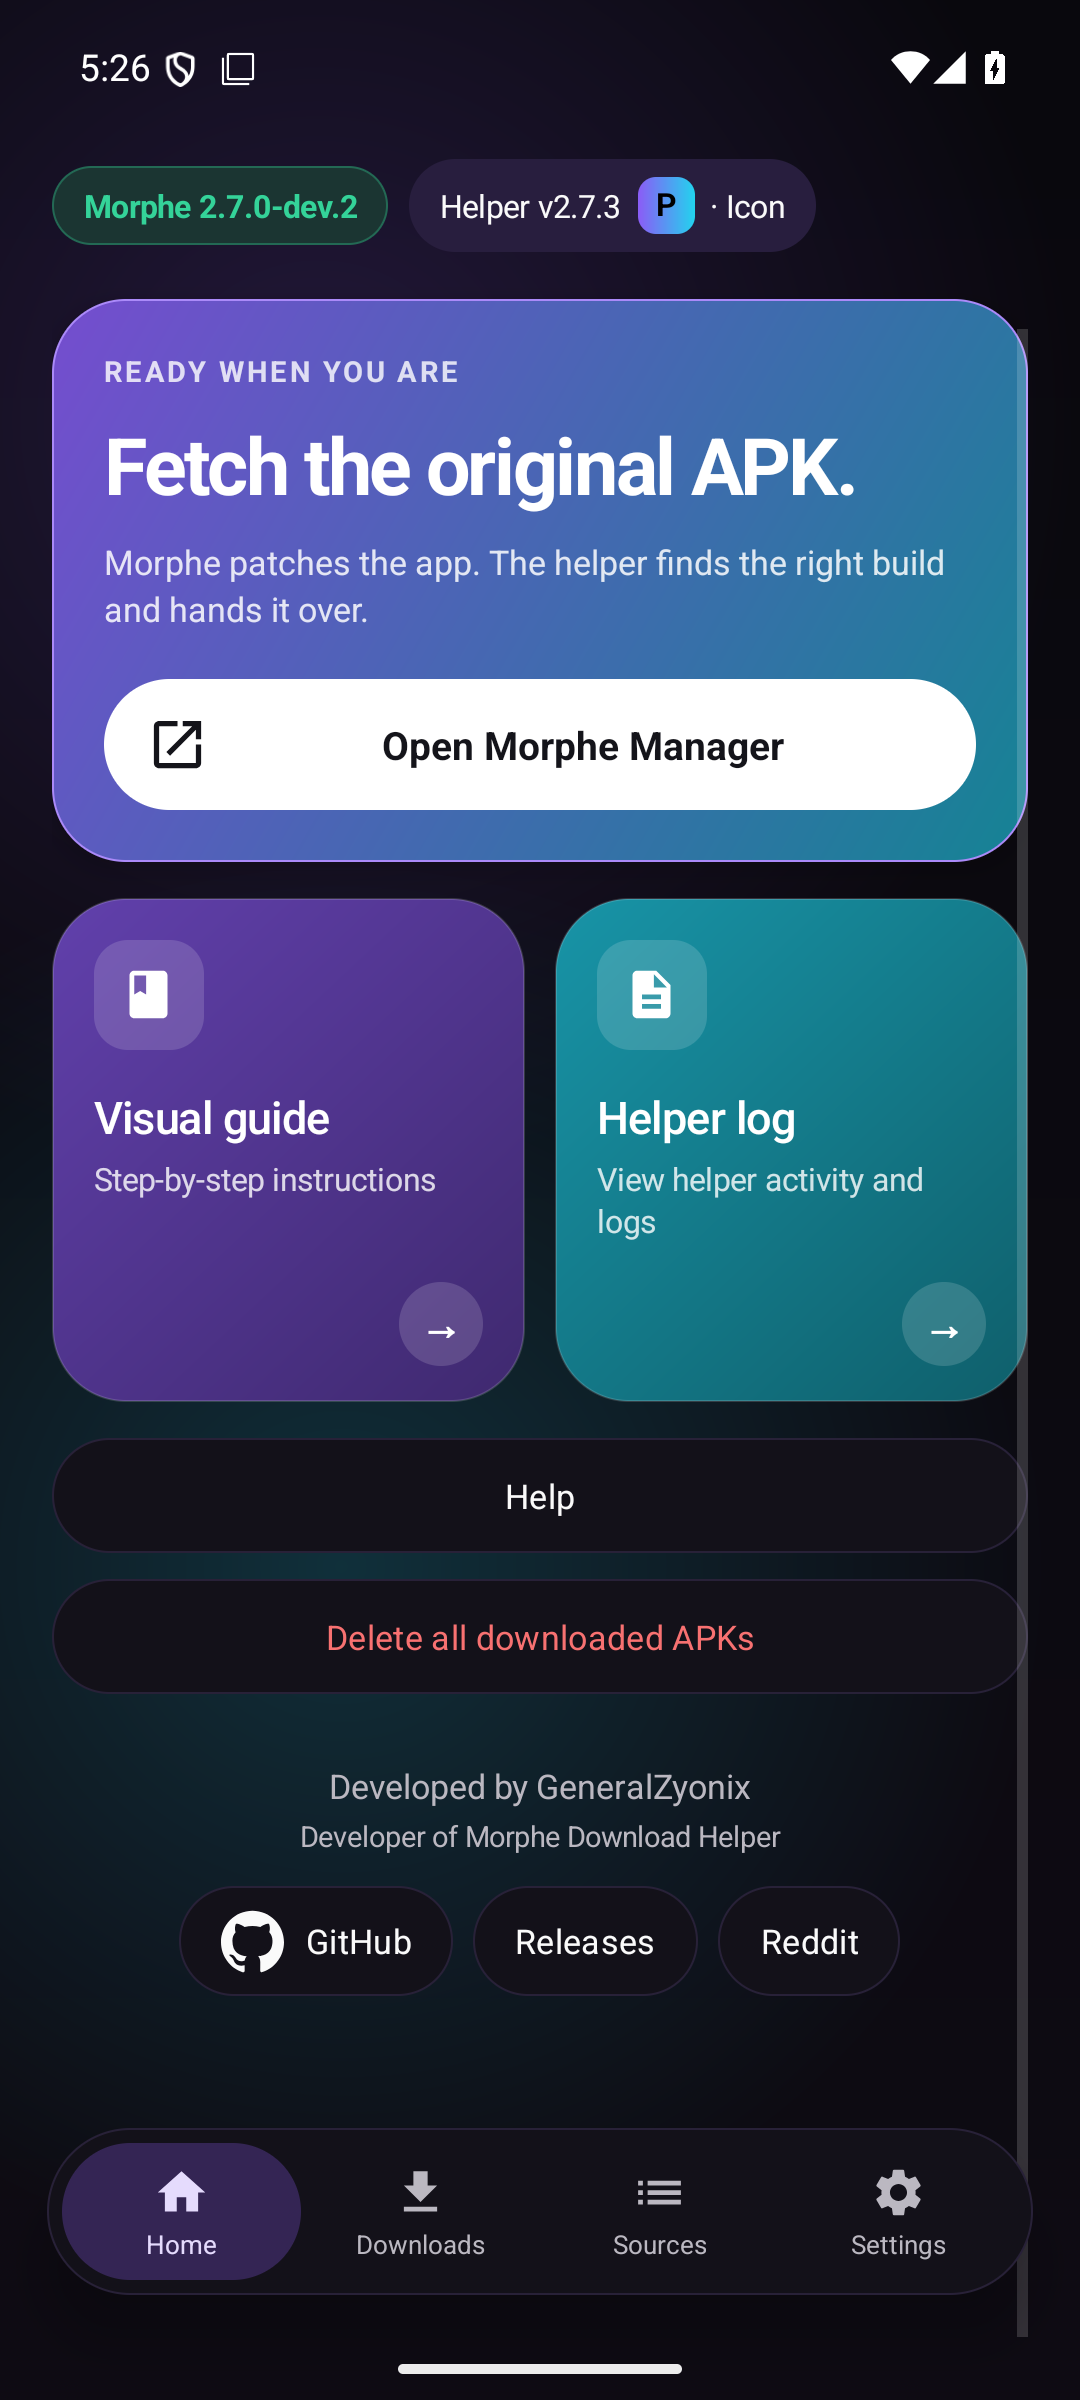
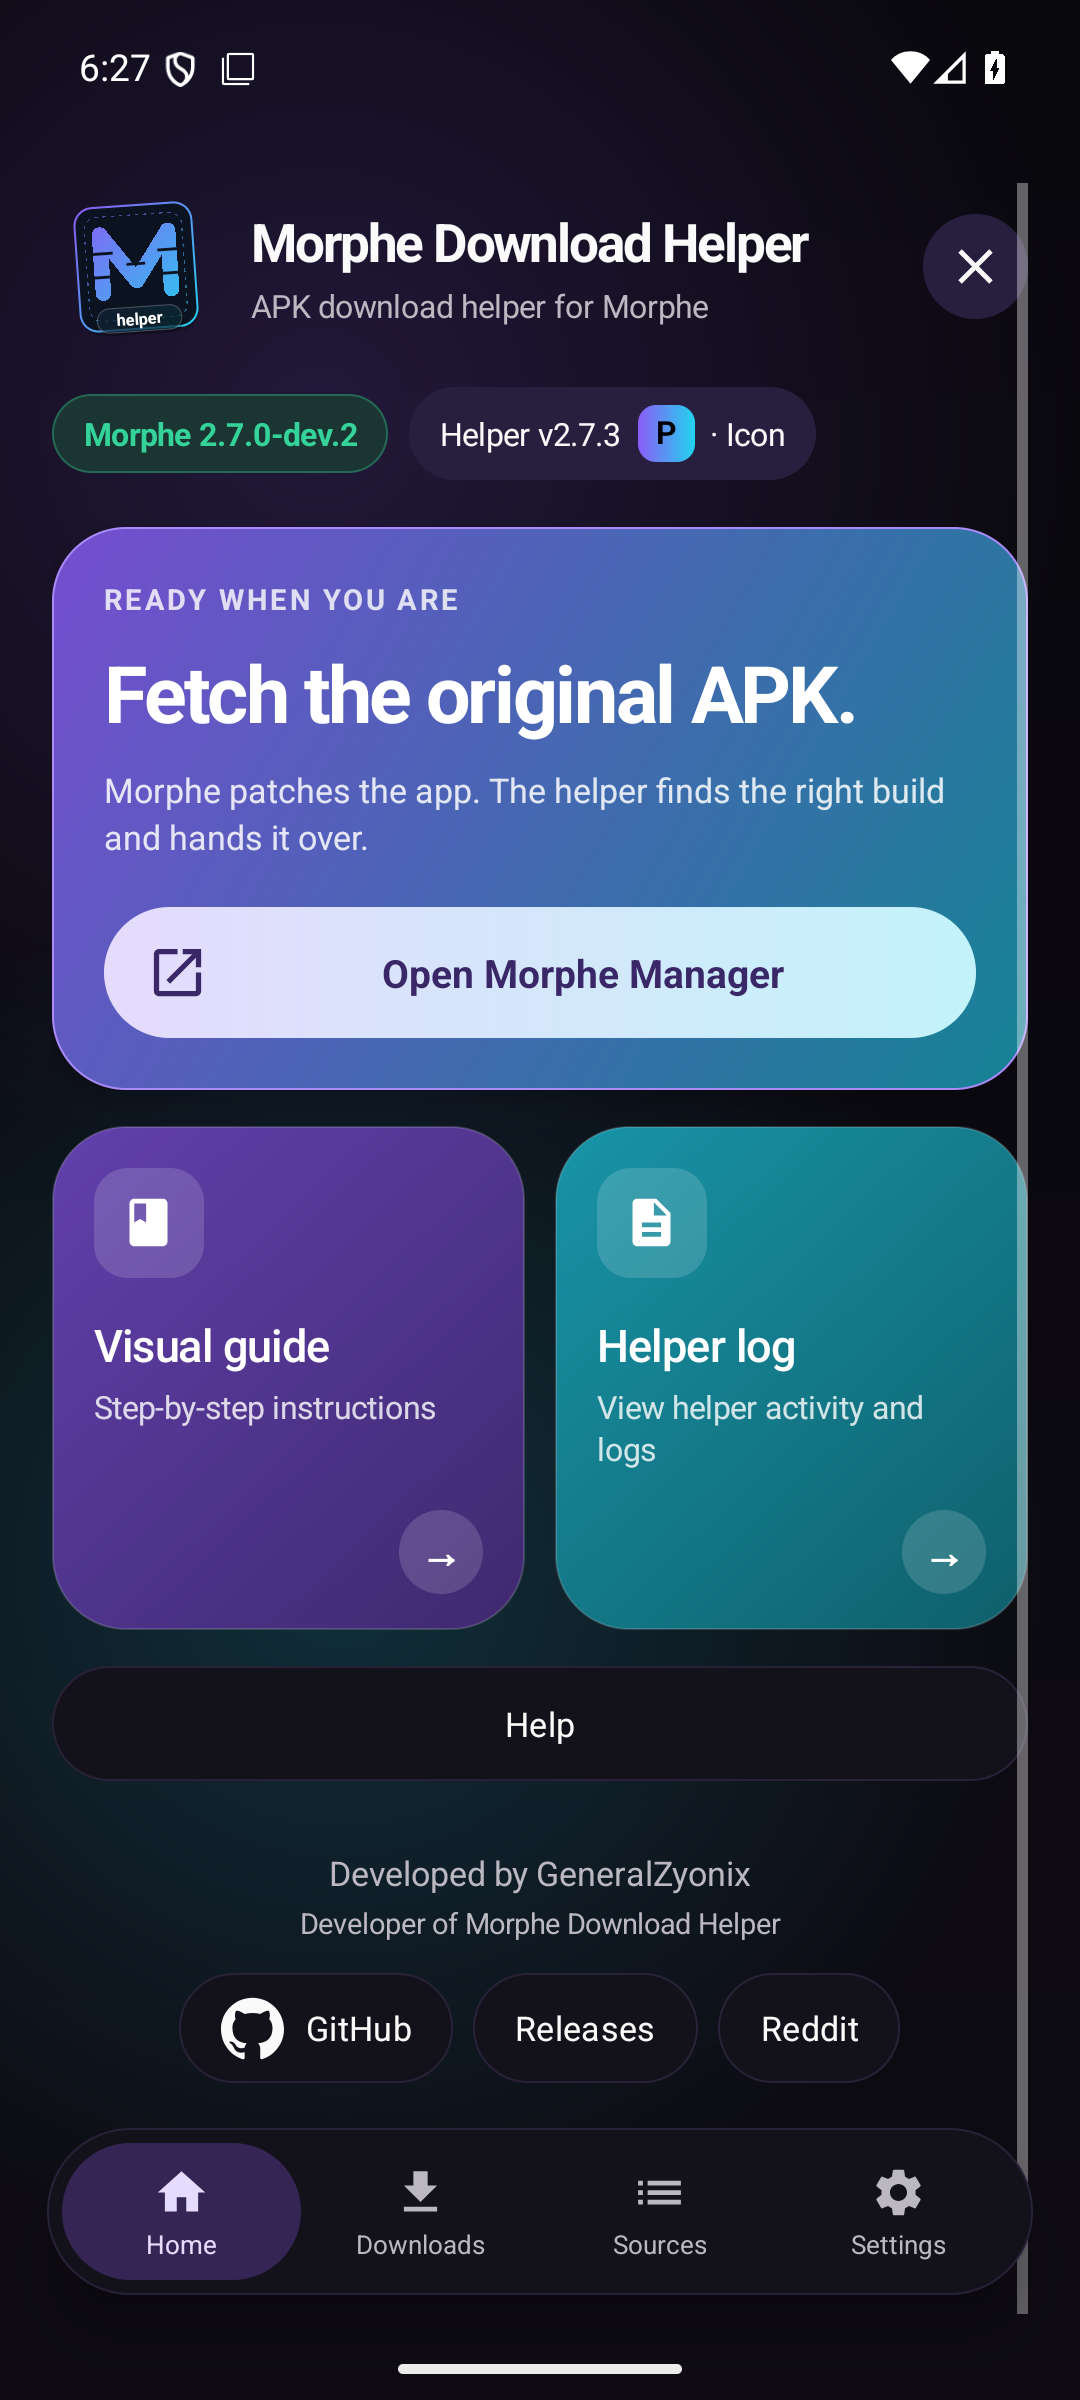
Tint the hero action with the selected accent

diff --git a/app/src/main/java/be/alterra/morphehelper/MorphePreviewActivity.java b/app/src/main/java/be/alterra/morphehelper/MorphePreviewActivity.java
@@ -504,15 +504,21 @@ public class MorphePreviewActivity extends Activity {
     }
 
     private TextView heroButton(String label, int iconRes, Runnable action) {
-        int foreground = Color.rgb(20, 20, 26);
+        float tint = palette.light ? 0.62f : 0.78f;
+        int fillStart = M3Ui.blend(palette.primaryStart, Color.WHITE, tint);
+        int fillEnd = M3Ui.blend(palette.primaryEnd, Color.WHITE, Math.max(0f, tint - 0.05f));
+        int foreground = M3Ui.blend(palette.primaryStart, Color.BLACK, 0.58f);
+        GradientDrawable background = new GradientDrawable(
+                GradientDrawable.Orientation.LEFT_RIGHT,
+                new int[]{fillStart, fillEnd});
+        background.setCornerRadius(dp(M3Ui.SHAPE_FULL));
         TextView button = M3Ui.text(this, label, 15, foreground, 600);
         button.setGravity(Gravity.CENTER);
         button.setClickable(true);
         button.setFocusable(true);
         button.setPadding(dp(16), dp(13), dp(16), dp(13));
         button.setBackground(new RippleDrawable(
-                ColorStateList.valueOf(0x22000000),
-                M3Ui.filled(this, Color.WHITE, M3Ui.SHAPE_FULL, 0, 0), null));
+                ColorStateList.valueOf(0x33000000), background, null));
         if (iconRes != 0) {
             Drawable icon = getDrawable(iconRes);
             if (icon != null) {

diff --git a/docs/V3_DESIGN.md b/docs/V3_DESIGN.md
@@ -16,7 +16,8 @@ You stay available. The current design remains selectable.
 - Deep navy-to-black surfaces with soft violet and blue glows.
 - Large 28 dp cards, generous spacing, and a single bold focal card per screen.
 - Gradient hero cards with an overline, one large statement, short body copy,
-  and one primary pill action.
+  and one primary pill action. The pill uses a light accent gradient with dark
+  accent text, so it follows the selected accent instead of staying white.
 - Paired feature tiles with a coloured icon tile, title, one-line description,
   and a circular arrow.
 - Rounded pill bottom navigation with four destinations: **Home**,
